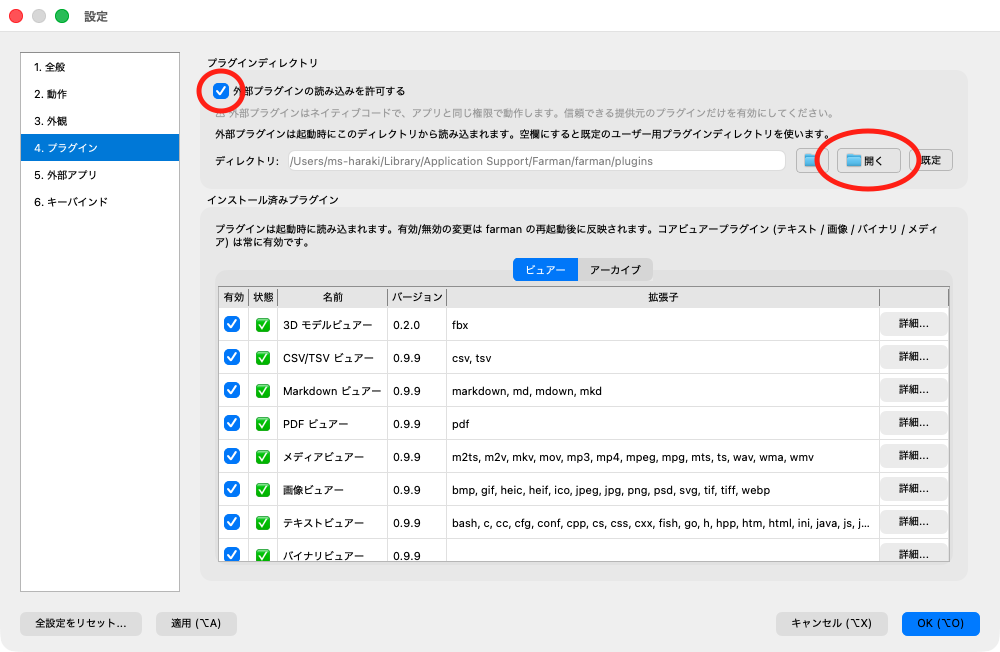
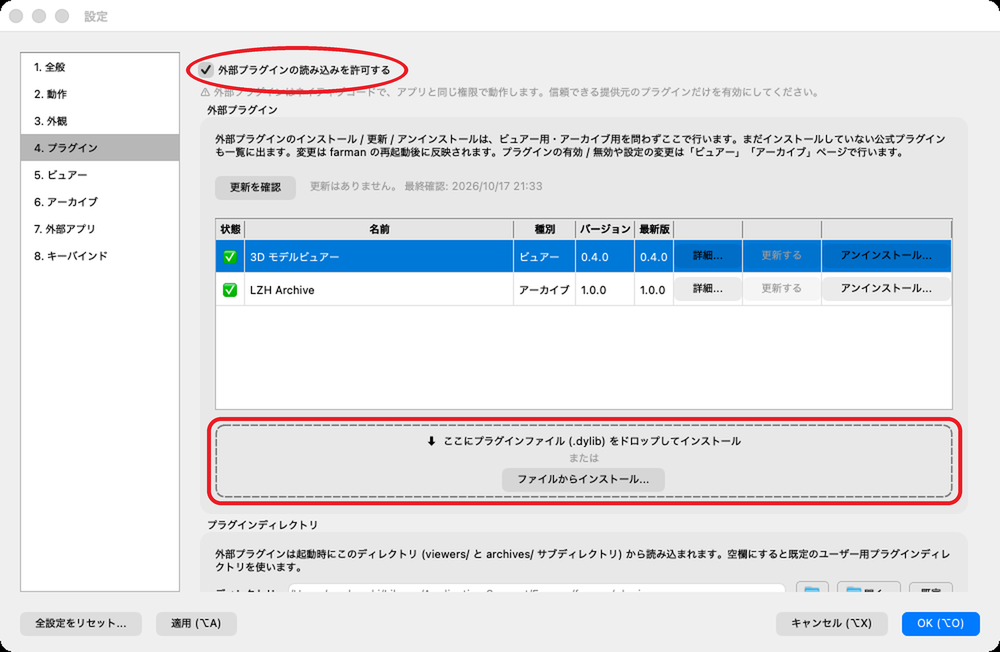
docs(plugins): 導入手順をアプリ内インストール (v1.1.0) に合わせて書き直す
設定 → プラグインでの導入 (公式プラグインの「インストール」、ファイルのドロップ /
「ファイルからインストール...」、再起動、更新・アンインストール) を日英の導入手順に
反映し、手順のスクリーンショットを撮り直す。

diff --git a/docs/plugins/index.html b/docs/plugins/index.html
@@ -174,17 +174,18 @@
     <!-- 導入手順 -->
     <section class="doc-section" id="install">
       <h2>導入手順</h2>
-      <p>外部プラグインは、farman のプラグインディレクトリに置いて読み込みます。手順はどのプラグインでも共通です。</p>
+      <p>外部プラグインは、farman の <strong>設定 → プラグイン</strong>（ヘルプ → プラグイン... からも開けます）でインストール・更新・アンインストールできます。ファイルを手でコピーする必要はありません。手順はどのプラグインでも共通です。</p>
       <ol class="doc-list">
-        <li>お使いの OS 用のファイルを、そのプラグインの配布ページからダウンロードします（macOS: <code>.dylib</code> / Windows: <code>.dll</code> / Linux: <code>.so</code>）。</li>
-        <li>farman の <strong>設定 → プラグイン</strong> で「<strong>開く</strong>」ボタンを押し、プラグインディレクトリを開きます。ビュアープラグインは <code>viewers</code>、アーカイブプラグインは <code>archives</code> のサブフォルダにファイルを置きます。</li>
-        <li>同じ画面で「<strong>外部プラグインの読込みを許可する</strong>」をオンにします（既定はオフ）。</li>
-        <li>farman を再起動します。設定 → プラグインの一覧に読み込まれたプラグインが表示されれば導入完了です。</li>
+        <li>設定 → プラグインを開き、「<strong>外部プラグインの読み込みを許可する</strong>」をオンにします（既定はオフ）。</li>
+        <li><strong>公式プラグイン</strong>は、まだ入れていないものが「外部プラグイン」の一覧に並びます。目的のプラグインの「<strong>インストール</strong>」を押すと、最新版を取得して導入します。</li>
+        <li><strong>手元のファイル</strong>（第三者のプラグインなど）は、お使いの OS 用のファイル（macOS: <code>.dylib</code> / Windows: <code>.dll</code> / Linux: <code>.so</code>）をダウンロードし、ページ下部の枠に<strong>ドラッグ＆ドロップ</strong>するか、「<strong>ファイルからインストール...</strong>」で選びます。ビュアー用かアーカイブ用かは自動で判別します。</li>
+        <li>導入は次回起動時に反映されます。ページの「<strong>farman を再起動</strong>」ボタンで、その場で再起動できます。再起動後、一覧に読み込み済みのプラグインが表示されれば導入完了です。</li>
       </ol>
       <figure class="doc-figure plugin-figure plugin-figure-sm">
-        <img src="../screenshots/ex-how-to-install.png" width="1000" height="652" alt="設定 → プラグインでプラグインディレクトリを開き、外部プラグインの読込みを許可する" loading="lazy" />
-        <figcaption>設定 → プラグイン（「開く」でプラグインディレクトリを表示・「外部プラグインの読込みを許可する」をオン）</figcaption>
+        <img src="../screenshots/ex-how-to-install.png" width="1000" height="652" alt="設定 → プラグインで外部プラグインの読み込みを許可し、ファイルをドロップするか「ファイルからインストール...」で導入する" loading="lazy" />
+        <figcaption>設定 → プラグイン（上: 「外部プラグインの読み込みを許可する」をオン / 下: ドロップまたは「ファイルからインストール...」）</figcaption>
       </figure>
+      <p class="doc-note">更新するときは、一覧の「更新を確認」で最新版を調べ、更新があるプラグインの「更新する」を押します。アンインストールも同じ一覧の「アンインストール...」から行います。プラグインディレクトリ（ページ下部の「開く」）の <code>viewers</code> / <code>archives</code> サブフォルダへ直接ファイルを置く従来の方法も使えます。</p>
       <p class="doc-note">macOS: 公式プラグインは署名 + 公証済みでそのまま読み込めます。未署名の第三者プラグインはダウンロード時の隔離により初回ロードがブロックされることがあります（提供元の案内に従ってください）。Windows: 未署名のプラグインは SmartScreen の警告が出ることがあります。</p>
     </section>
 

diff --git a/docs/en/plugins/index.html b/docs/en/plugins/index.html
@@ -176,17 +176,18 @@
     <!-- Install -->
     <section class="doc-section" id="install">
       <h2>How to install</h2>
-      <p>External plugins are loaded from farman's plugins directory. The steps are the same for any plugin.</p>
+      <p>External plugins can be installed, updated and uninstalled inside farman, under <strong>Settings → Plugins</strong> (also reachable from Help → Plugins...). You no longer have to copy files by hand. The steps are the same for any plugin.</p>
       <ol class="doc-list">
-        <li>Download the file for your OS from the plugin's download page (macOS: <code>.dylib</code> / Windows: <code>.dll</code> / Linux: <code>.so</code>).</li>
-        <li>In farman, go to <strong>Settings → Plugins</strong> and click <strong>Open</strong> to open the plugins directory. Put viewer plugins into the <code>viewers</code> subfolder and archive plugins into <code>archives</code>.</li>
-        <li>On the same screen, turn on <strong>Allow loading external plugins</strong> (off by default).</li>
-        <li>Restart farman. If the plugin appears in the list under Settings → Plugins, it's installed.</li>
+        <li>Open Settings → Plugins and turn on <strong>Allow loading external plugins</strong> (off by default).</li>
+        <li><strong>Official plugins</strong> that are not installed yet are listed under "External Plugins". Click <strong>Install</strong> on the one you want and farman fetches and installs the latest version.</li>
+        <li>For <strong>a file you already have</strong> (a third-party plugin, for example), download the file for your OS (macOS: <code>.dylib</code> / Windows: <code>.dll</code> / Linux: <code>.so</code>), then <strong>drag and drop</strong> it onto the box at the bottom of the page or choose it with <strong>Install from File...</strong>. farman works out whether it is a viewer or an archive plugin.</li>
+        <li>The change takes effect the next time farman starts. Use the <strong>Restart farman</strong> button on the page to restart right away. If the plugin shows as loaded in the list afterwards, it is installed.</li>
       </ol>
       <figure class="doc-figure plugin-figure plugin-figure-sm">
-        <img src="../../screenshots/ex-how-to-install.png" width="1000" height="652" alt="Open the plugins directory and allow loading external plugins under Settings → Plugins" loading="lazy" />
-        <figcaption>Settings → Plugins (use "Open" to reveal the plugins directory and turn on "Allow loading external plugins")</figcaption>
+        <img src="../../screenshots/ex-how-to-install.png" width="1000" height="652" alt="Under Settings → Plugins, allow loading external plugins, then drop a file or use Install from File..." loading="lazy" />
+        <figcaption>Settings → Plugins (top: turn on "Allow loading external plugins" / bottom: drop a file or use "Install from File...")</figcaption>
       </figure>
+      <p class="doc-note">To update, use "Check for Updates" in the list and click "Update" on any plugin that has one. Uninstalling is done from the same list with "Uninstall...". You can still place files directly into the <code>viewers</code> / <code>archives</code> subfolders of the plugins directory ("Open" at the bottom of the page).</p>
       <p class="doc-note">macOS: official plugins are signed + notarized and load as-is. Unsigned third-party plugins may be blocked on first load by download quarantine (follow the provider's instructions). Windows: unsigned plugins may trigger a SmartScreen warning.</p>
     </section>
 
